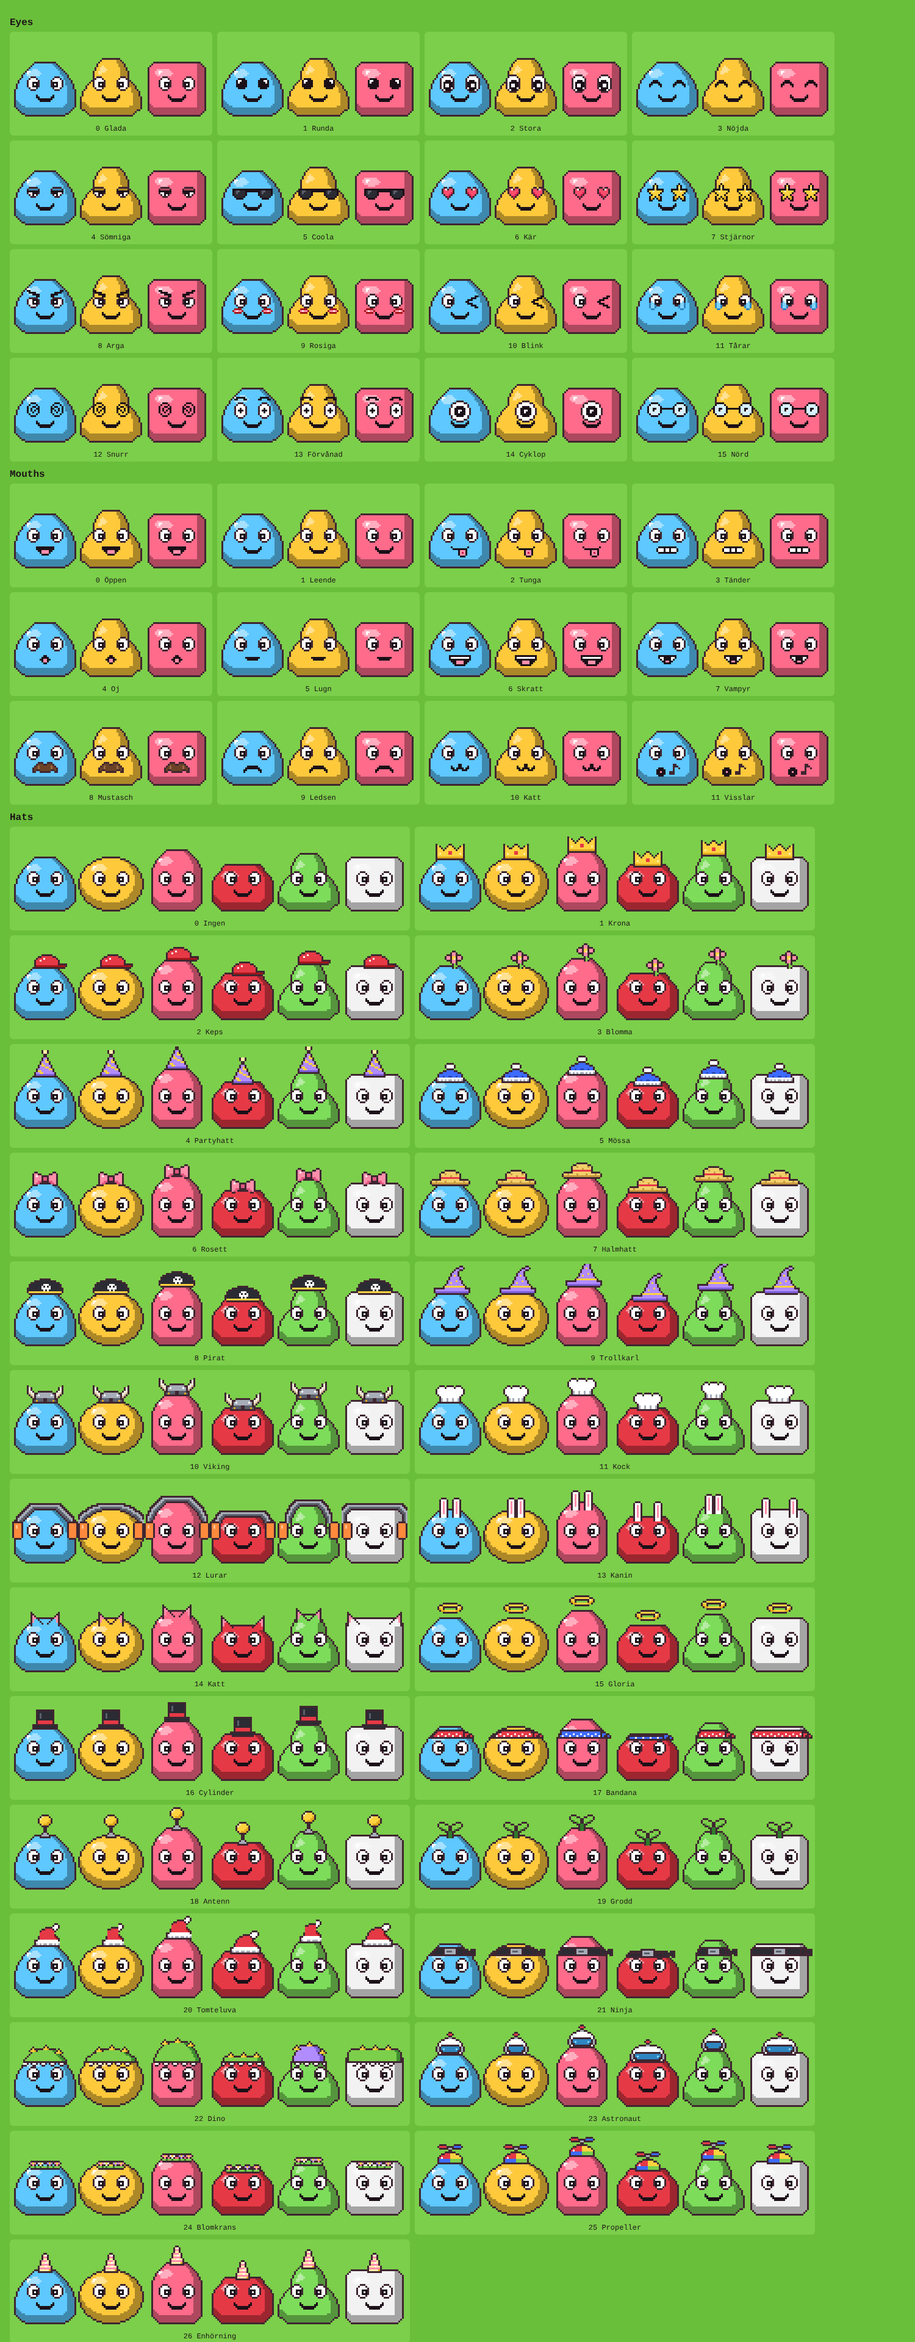
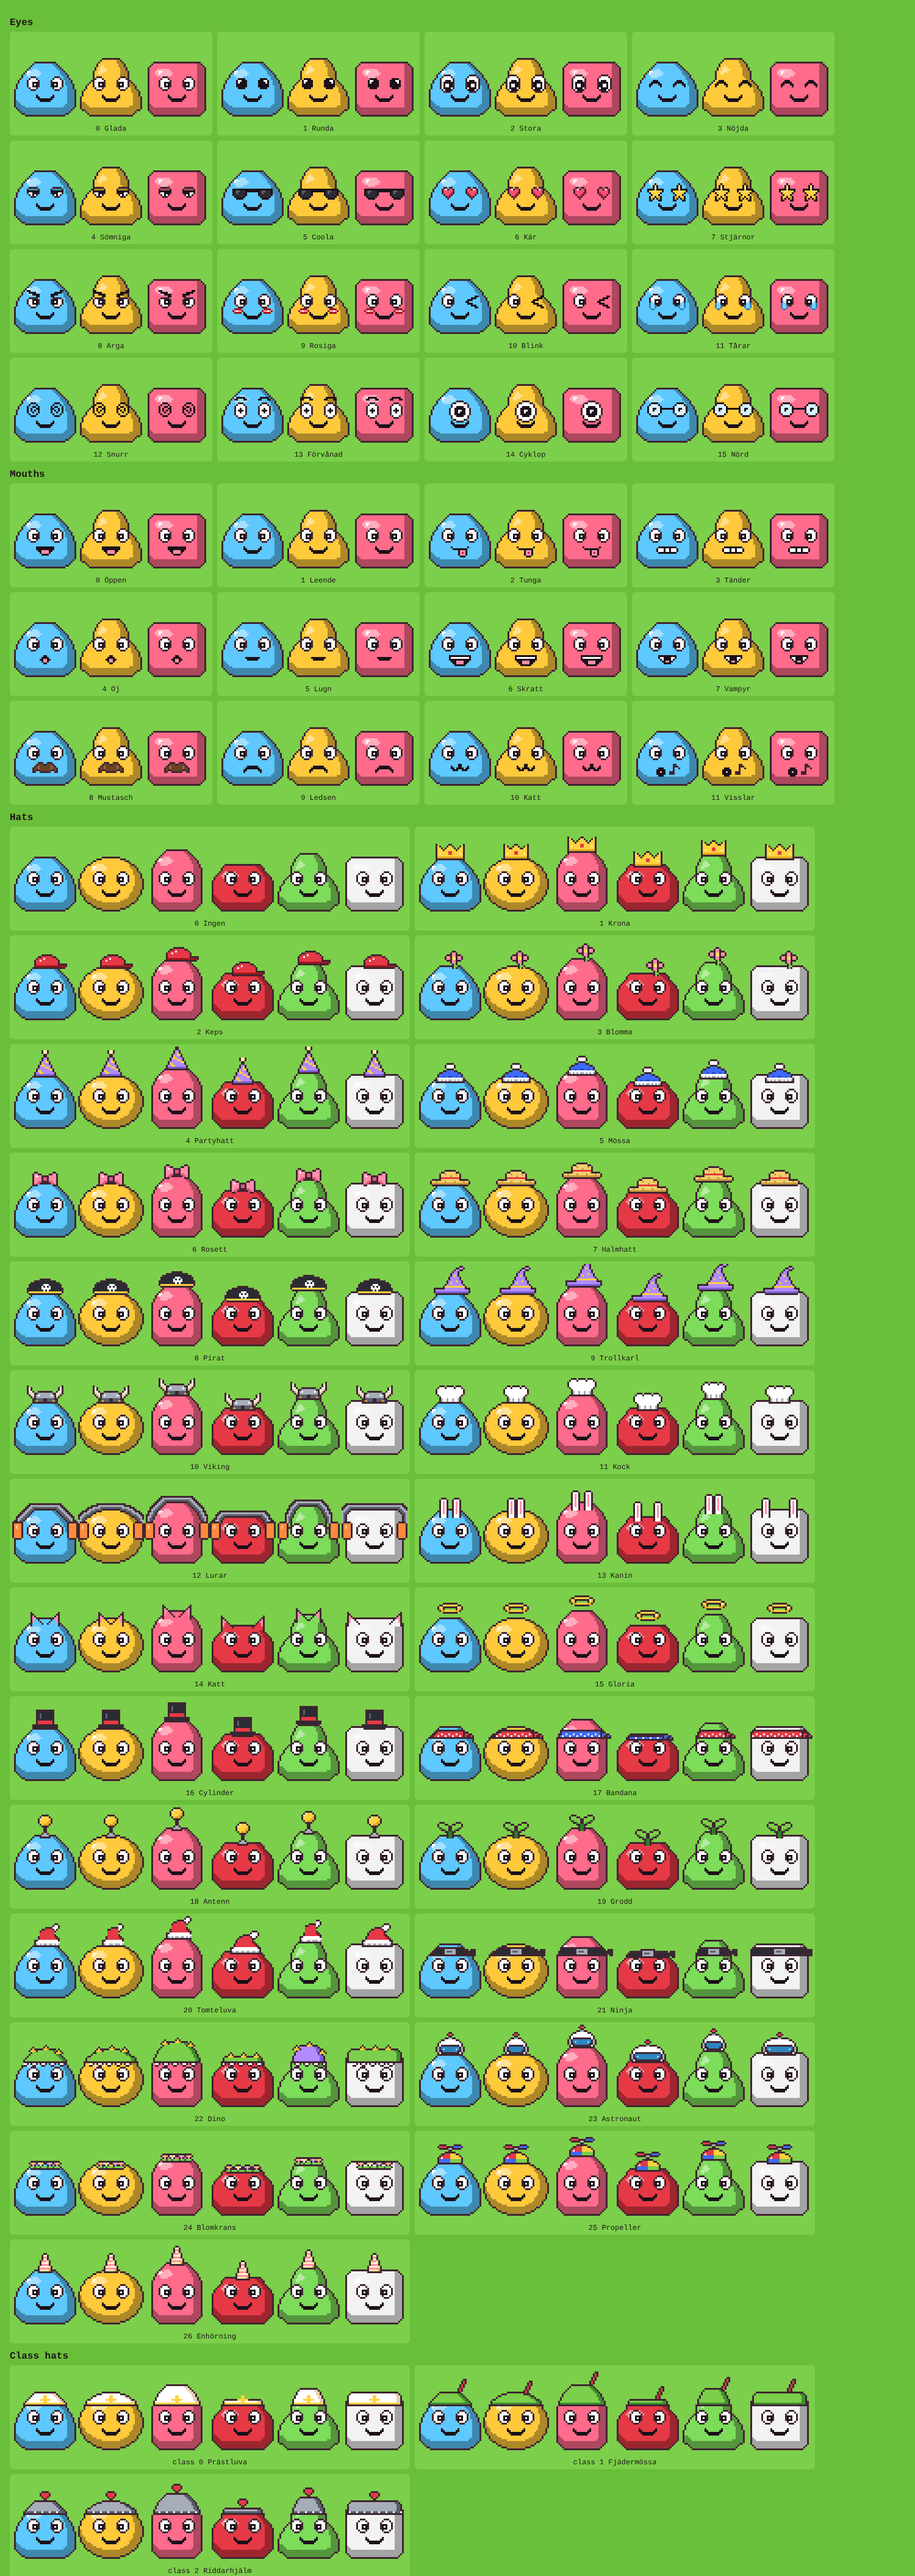
feat(blobz): dungeon class hats (Prästluva, Fjädermössa, Riddarhjälm)
New CLASS_HATS and an optional classHat param on blobGrid/blobCanvas that
replaces the skin hat; existing calls are unchanged. All three are drawn
as head-shaped hoods so they fit every body shape (priest: cream with gold
cross, archer: green cap with a feather, knight: steel with a plume).
Shared hood drawing with the dino hood. Tests and parts sheet cover them.

Claude-Session: https://claude.ai/code/session_019PjhQv7Xfjv9fRCZgvquZ1

diff --git a/blobz/src/blob.ts b/blobz/src/blob.ts
@@ -106,7 +106,7 @@ const MOUTH_PARTS: MouthPart[] = [
 interface HatPart {
   rows: string[]; dx?: number; float?: boolean; brim?: boolean; anchor?: number; wrap?: number;
   pair?: { rows: string[]; at?: number; dy?: number };
-  proc?: 'phones' | 'bandana' | 'ninja' | 'dino';
+  proc?: 'phones' | 'bandana' | 'ninja' | 'dino' | 'priest' | 'archer' | 'helmet';
 }
 const HAT_PARTS: HatPart[] = [
   { rows: [] }, // Ingen
@@ -180,8 +180,16 @@ const HAT_PARTS: HatPart[] = [
     'UoooooyU', 'UUUUUUUU'] },
 ];
 
+// Dungeon class gear, worn instead of the skin hat when a class is picked (blobGrid's `classHat`).
+export const CLASS_HATS = ['Prästluva', 'Fjädermössa', 'Riddarhjälm'];
+const CLASS_HAT_PARTS: HatPart[] = [
+  { proc: 'priest', rows: [] }, // Prästluva
+  { proc: 'archer', rows: [] }, // Fjädermössa (green cap shaped to the head, red feather)
+  { proc: 'helmet', rows: [] }, // Riddarhjälm (steel helmet shaped to the head, red plume)
+];
+
 /** Part tables, exported for tests only. */
-export const PART_TABLES = { eyes: EYE_PARTS, mouths: MOUTH_PARTS, hats: HAT_PARTS, palette: PAL };
+export const PART_TABLES = { eyes: EYE_PARTS, mouths: MOUTH_PARTS, hats: HAT_PARTS, classHats: CLASS_HAT_PARTS, palette: PAL };
 
 function rgb(c: number) { return [(c >> 16) & 255, (c >> 8) & 255, c & 255]; }
 function css([r, g, b]: number[]) { return `rgb(${r | 0},${g | 0},${b | 0})`; }
@@ -348,13 +356,51 @@ function drawDino(set: Setter, color: number) {
   const [r, g, b] = rgb(color);
   const greenBody = g > r + 30 && g > b;
   const [fill, shade] = greenBody ? [PAL.P, PAL.p] : [PAL.L, PAL.l];
+  drawHood(set, fill, shade, true);
+}
+
+/** Priest hood: cream hood over the head top with a gold trim and a small gold cross. */
+function drawPriestHood(set: Setter) {
+  drawHood(set, PAL.W, '#e2cfb2', false, PAL.Y);
+  [[17, 15], [18, 15], [17, 16], [18, 16], [15, 17], [16, 17], [17, 17], [18, 17], [19, 17], [20, 17], [17, 18], [18, 18]]
+    .forEach(([x, y]) => set(x, y, PAL.Y));
+}
+
+/** Top row of the head-shaped hood at column x (the head raised 3 px). */
+function hoodTop(x: number) {
+  let y = 0;
+  while (y < GRID_H && !(inBody(x, y) || inBody(x, y + 3))) y++;
+  return y;
+}
+function paintAt(set: Setter, x0: number, y0: number, rows: string[]) {
+  rows.forEach((row, ry) => [...row].forEach((ch, rx) => { if (ch !== '.') set(x0 + rx, y0 + ry, PAL[ch]); }));
+}
+
+/** Archer cap: green cap over the head top with a red feather sticking up on the right. */
+function drawArcherCap(set: Setter) {
+  drawHood(set, PAL.L, PAL.l, false, PAL.l);
+  const fx = 23, top = hoodTop(fx);
+  paintAt(set, fx - 1, top - 7, ['...UU', '..UeU', '..UeU', '.UeU.', '.UeU.', 'UeU..', 'UeU..', 'UU...']);
+}
+
+/** Knight helmet: steel over the head top, rivet band at the rim, red plume on top. */
+function drawHelmet(set: Setter) {
+  drawHood(set, PAL.a, PAL.g, false, PAL.g);
+  for (let x = 0; x < GRID_W; x += 4) if (inBody(x, 19)) set(x, 19, PAL.W);
+  const top = hoodTop(17);
+  paintAt(set, 15, top - 5, ['.UUUU.', 'UeeeeU', 'UeeeeU', '.UeeU.', '..UU..', '..UU..']);
+}
+
+/** A hood shaped like the head top (raised 3 px so flat heads get one too); optional dino teeth/spikes. */
+function drawHood(set: Setter, fill: string, shade: string, dino: boolean, trim?: string) {
   const rim = 20, lift = 3; // the hood is the head top raised by `lift` px, so flat heads get a hood too
   const hood = (x: number, y: number) => y <= rim && (inBody(x, y) || inBody(x, y + lift));
   for (let y = 0; y <= rim; y++) for (let x = 0; x < GRID_W; x++) {
     if (!hood(x, y)) continue;
     const edge = y === rim || [[1, 0], [-1, 0], [0, -1]].some(([dx, dy]) => !hood(x + dx, y + dy));
-    set(x, y, edge ? OUT : !hood(x + 3, y) || !hood(x, y + 1) ? shade : fill);
+    set(x, y, edge ? OUT : trim && y === rim - 1 ? trim : !hood(x + 3, y) || !hood(x, y + 1) ? shade : fill);
   }
+  if (!dino) return;
   for (let x = 0; x < GRID_W; x++) { // teeth hang into the gap row above the eyes (rows 21-22)
     const t = x % 5;
     if (!inBody(x, 22) || x < 6 || x > 29) continue;
@@ -372,7 +418,8 @@ function drawDino(set: Setter, color: number) {
 }
 
 /** Pixel grid of CSS colors (null = transparent). */
-export function blobGrid(look: BlobLook): (string | null)[][] {
+/** `classHat`: index into CLASS_HATS; replaces the skin hat (dungeon class gear). */
+export function blobGrid(look: BlobLook, classHat?: number): (string | null)[][] {
   const g: (string | null)[][] = Array.from({ length: GRID_H }, () => Array<string | null>(GRID_W).fill(null));
   const set = (x: number, y: number, col: string | null) => { if (x >= 0 && x < GRID_W && y >= 0 && y < GRID_H && col) g[y][x] = col; };
   curShape = look.shape;
@@ -410,18 +457,23 @@ export function blobGrid(look: BlobLook): (string | null)[][] {
   }
   const mouth = MOUTH_PARTS[look.mouth] ?? MOUTH_PARTS[0];
   paint(mouth.rows, GRID_W / 2 - Math.floor(mouth.rows[0].length / 2), 33 + (mouth.dy ?? 0));
-  const hat = HAT_PARTS[look.hat] ?? HAT_PARTS[0];
+  const cls = classHat !== undefined ? CLASS_HAT_PARTS[classHat] : undefined;
+  const hat = cls ?? HAT_PARTS[look.hat] ?? HAT_PARTS[0];
+  const hatKey = cls ? 1000 + classHat! : look.hat;
   if (hat.proc === 'phones') drawPhones(set);
   else if (hat.proc === 'bandana') drawBandana(set, look.color);
   else if (hat.proc === 'ninja') drawBandana(set, look.color, true);
   else if (hat.proc === 'dino') drawDino(set, look.color);
+  else if (hat.proc === 'priest') drawPriestHood(set);
+  else if (hat.proc === 'archer') drawArcherCap(set);
+  else if (hat.proc === 'helmet') drawHelmet(set);
   else {
     // the hat's bottom row sits just above the eyes (row 23) on every shape; tall hats clip at the top
     const bottom = hat.float ? headTop() - 3 : Math.min(top + 2, 11) * S - 1;
     const ext = headExtents();
         let hx0 = 0, hw = 0, hy0 = bottom;
     if (hat.rows.length) {
-      const rows = fitHat(look.hat, look.shape, hat, bottom);
+      const rows = fitHat(hatKey, look.shape, hat, bottom);
       hw = rows[0].length;
       hx0 = hat.anchor !== undefined ? Math.round(ext[0]![0] + (ext[0]![1] - ext[0]![0] + 1) * hat.anchor - hw / 2) : Math.floor(GRID_W / 2 - hw / 2) + (hat.dx ?? 0);
       hy0 = hat.float ? bottom - rows.length + 1 : restOnHead(rows, hx0, bottom - rows.length + 1, hat.wrap);
@@ -458,11 +510,11 @@ export function blobSvg(look: BlobLook): string {
 }
 
 /** Canvas at integer scale (Phaser textures, previews). */
-export function blobCanvas(look: BlobLook, scale = 1): HTMLCanvasElement {
+export function blobCanvas(look: BlobLook, scale = 1, classHat?: number): HTMLCanvasElement {
   const c = document.createElement('canvas');
   c.width = GRID_W * scale; c.height = GRID_H * scale;
   const ctx = c.getContext('2d')!;
-  blobGrid(look).forEach((row, y) => row.forEach((col, x) => {
+  blobGrid(look, classHat).forEach((row, y) => row.forEach((col, x) => {
     if (!col) return;
     ctx.fillStyle = col;
     ctx.fillRect(x * scale, y * scale, scale, scale);

diff --git a/blobz/src/blob.test.ts b/blobz/src/blob.test.ts
@@ -1,5 +1,5 @@
 import { describe, expect, it } from 'vitest';
-import { blobGrid, blobSvg, clampLook, COLORS, EYES, GRID_H, GRID_W, HAT_OVERHANG, HAT_REST_OVERLAP, HATS, MOUTHS, PART_TABLES, SHAPES } from './blob';
+import { blobGrid, blobSvg, CLASS_HATS, clampLook, COLORS, EYES, GRID_H, GRID_W, HAT_OVERHANG, HAT_REST_OVERLAP, HATS, MOUTHS, PART_TABLES, SHAPES } from './blob';
 
 const diff = (a: (string | null)[][], b: (string | null)[][]) => {
   const out: [number, number][] = [];
@@ -32,7 +32,7 @@ describe('blob', () => {
   it('part patterns are rectangular and use only palette letters', () => {
     const ok = new Set([...Object.keys(PART_TABLES.palette), '.', 'M', 'm']);
     const all = [...PART_TABLES.eyes.flatMap((e) => [e.rows, e.right ?? []]), ...PART_TABLES.mouths.map((m) => m.rows),
-      ...PART_TABLES.hats.flatMap((h) => [h.rows, h.pair?.rows ?? []])].filter((rows) => rows.length);
+      ...[...PART_TABLES.hats, ...PART_TABLES.classHats].flatMap((h) => [h.rows, h.pair?.rows ?? []])].filter((rows) => rows.length);
     for (const rows of all) {
       for (const r of rows) {
         expect(r.length).toBe(rows[0].length);
@@ -120,6 +120,16 @@ describe('blob', () => {
         // wrapping hats (wreath, beanie) have their own, deeper bound
         expect(worst, `${HATS[h]} on ${SHAPES[s]}`).toBeLessThanOrEqual(HAT_REST_OVERLAP + (PART_TABLES.hats[h].wrap ?? 0));
       }
+    }
+  });
+
+  it('class hats render on every shape, change the head and never cover the face', () => {
+    expect(PART_TABLES.classHats).toHaveLength(CLASS_HATS.length);
+    for (let s = 0; s < SHAPES.length; s++) for (const color of COLORS) for (let c = 0; c < CLASS_HATS.length; c++) {
+      const bare = blobGrid({ color, shape: s, eyes: 0, mouth: 0, hat: 0 });
+      const d = diff(bare, blobGrid({ color, shape: s, eyes: 0, mouth: 0, hat: 7 }, c));
+      expect(d.length, `${CLASS_HATS[c]} on ${SHAPES[s]}`).toBeGreaterThan(20);
+      expect(d.filter(([x, y]) => y >= 23 && y <= 40 && x >= 7 && x <= 28), `${CLASS_HATS[c]} on ${SHAPES[s]}`).toEqual([]);
     }
   });
 
